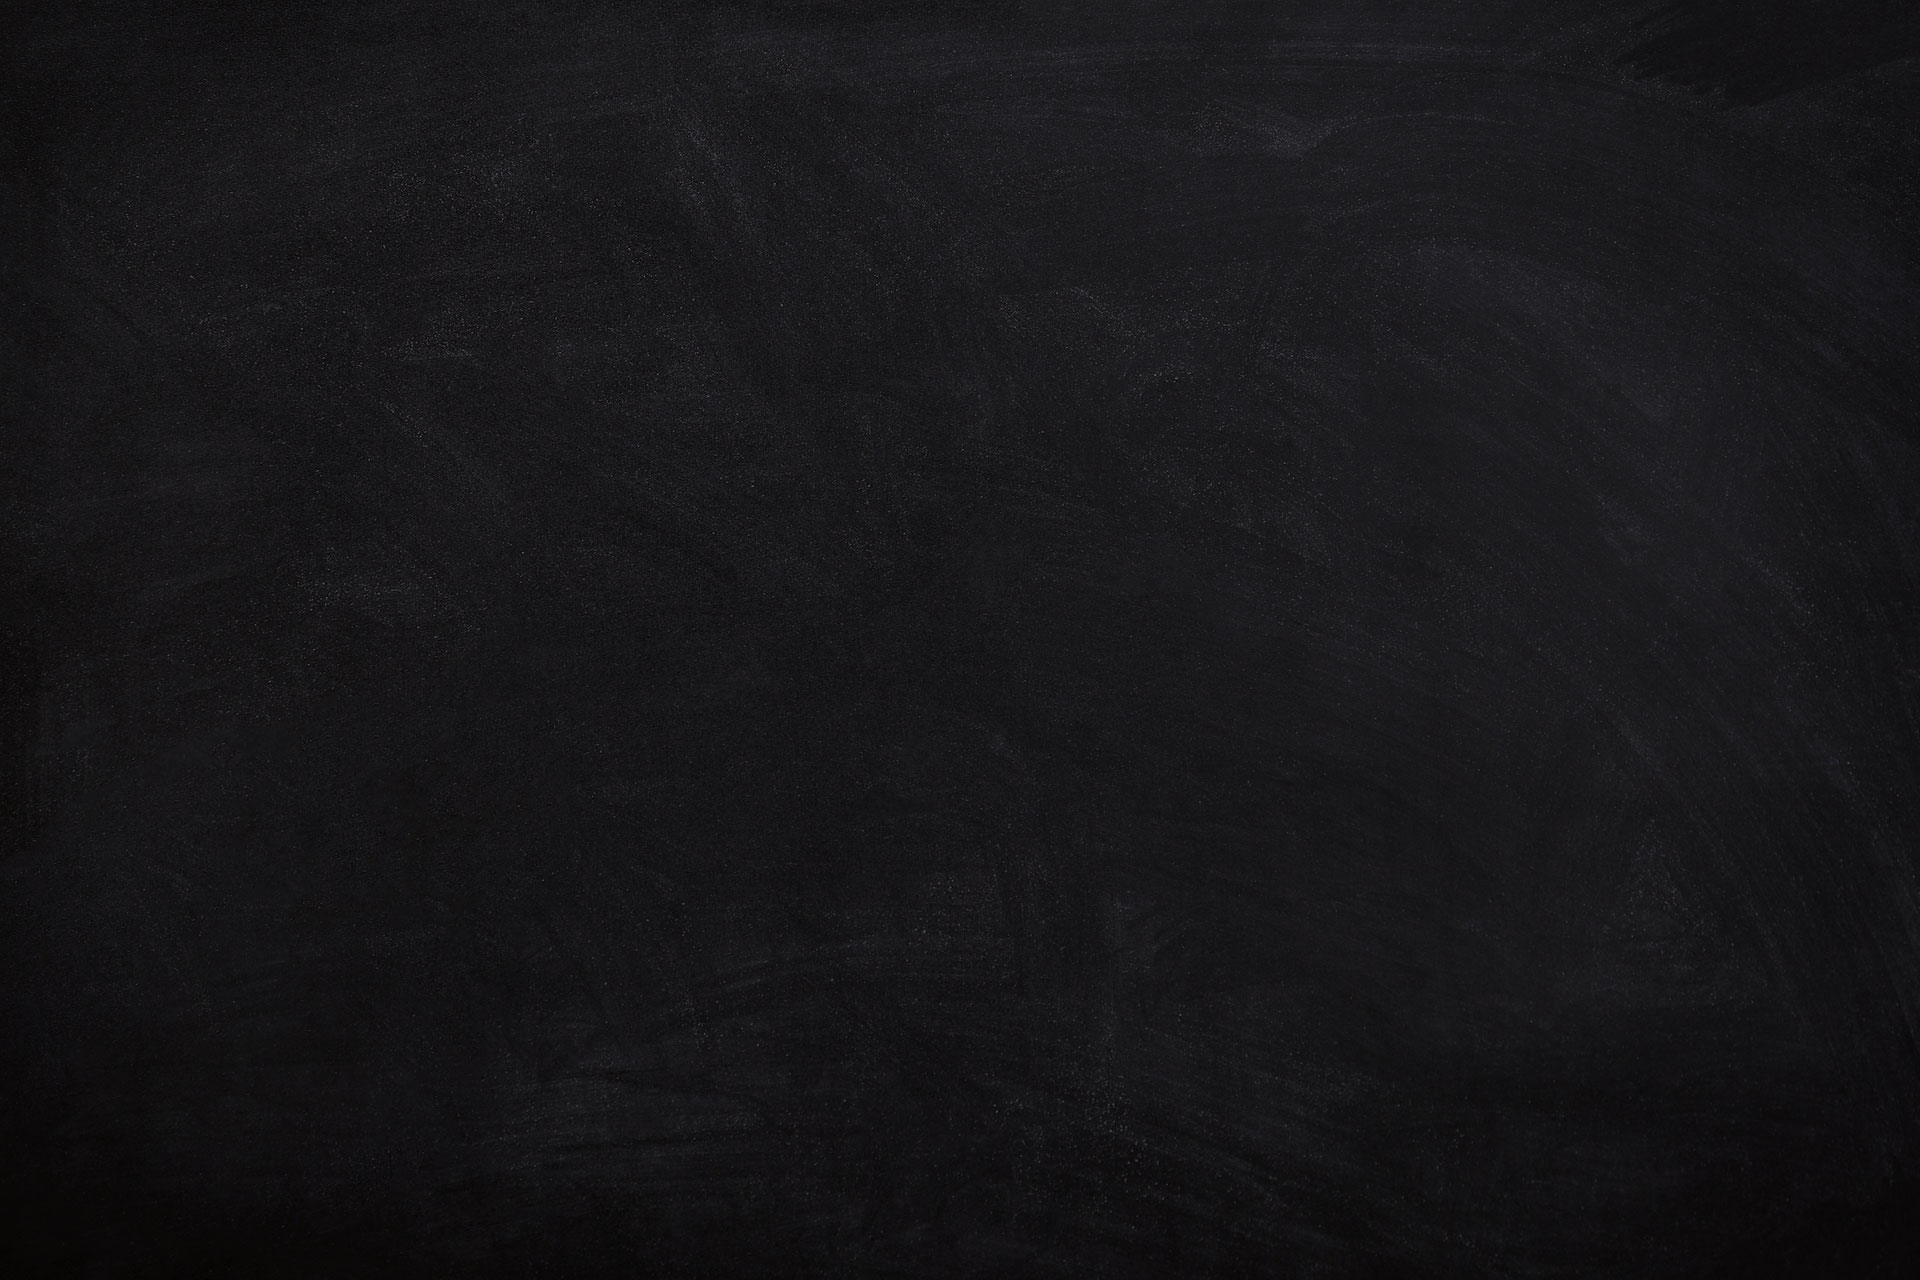
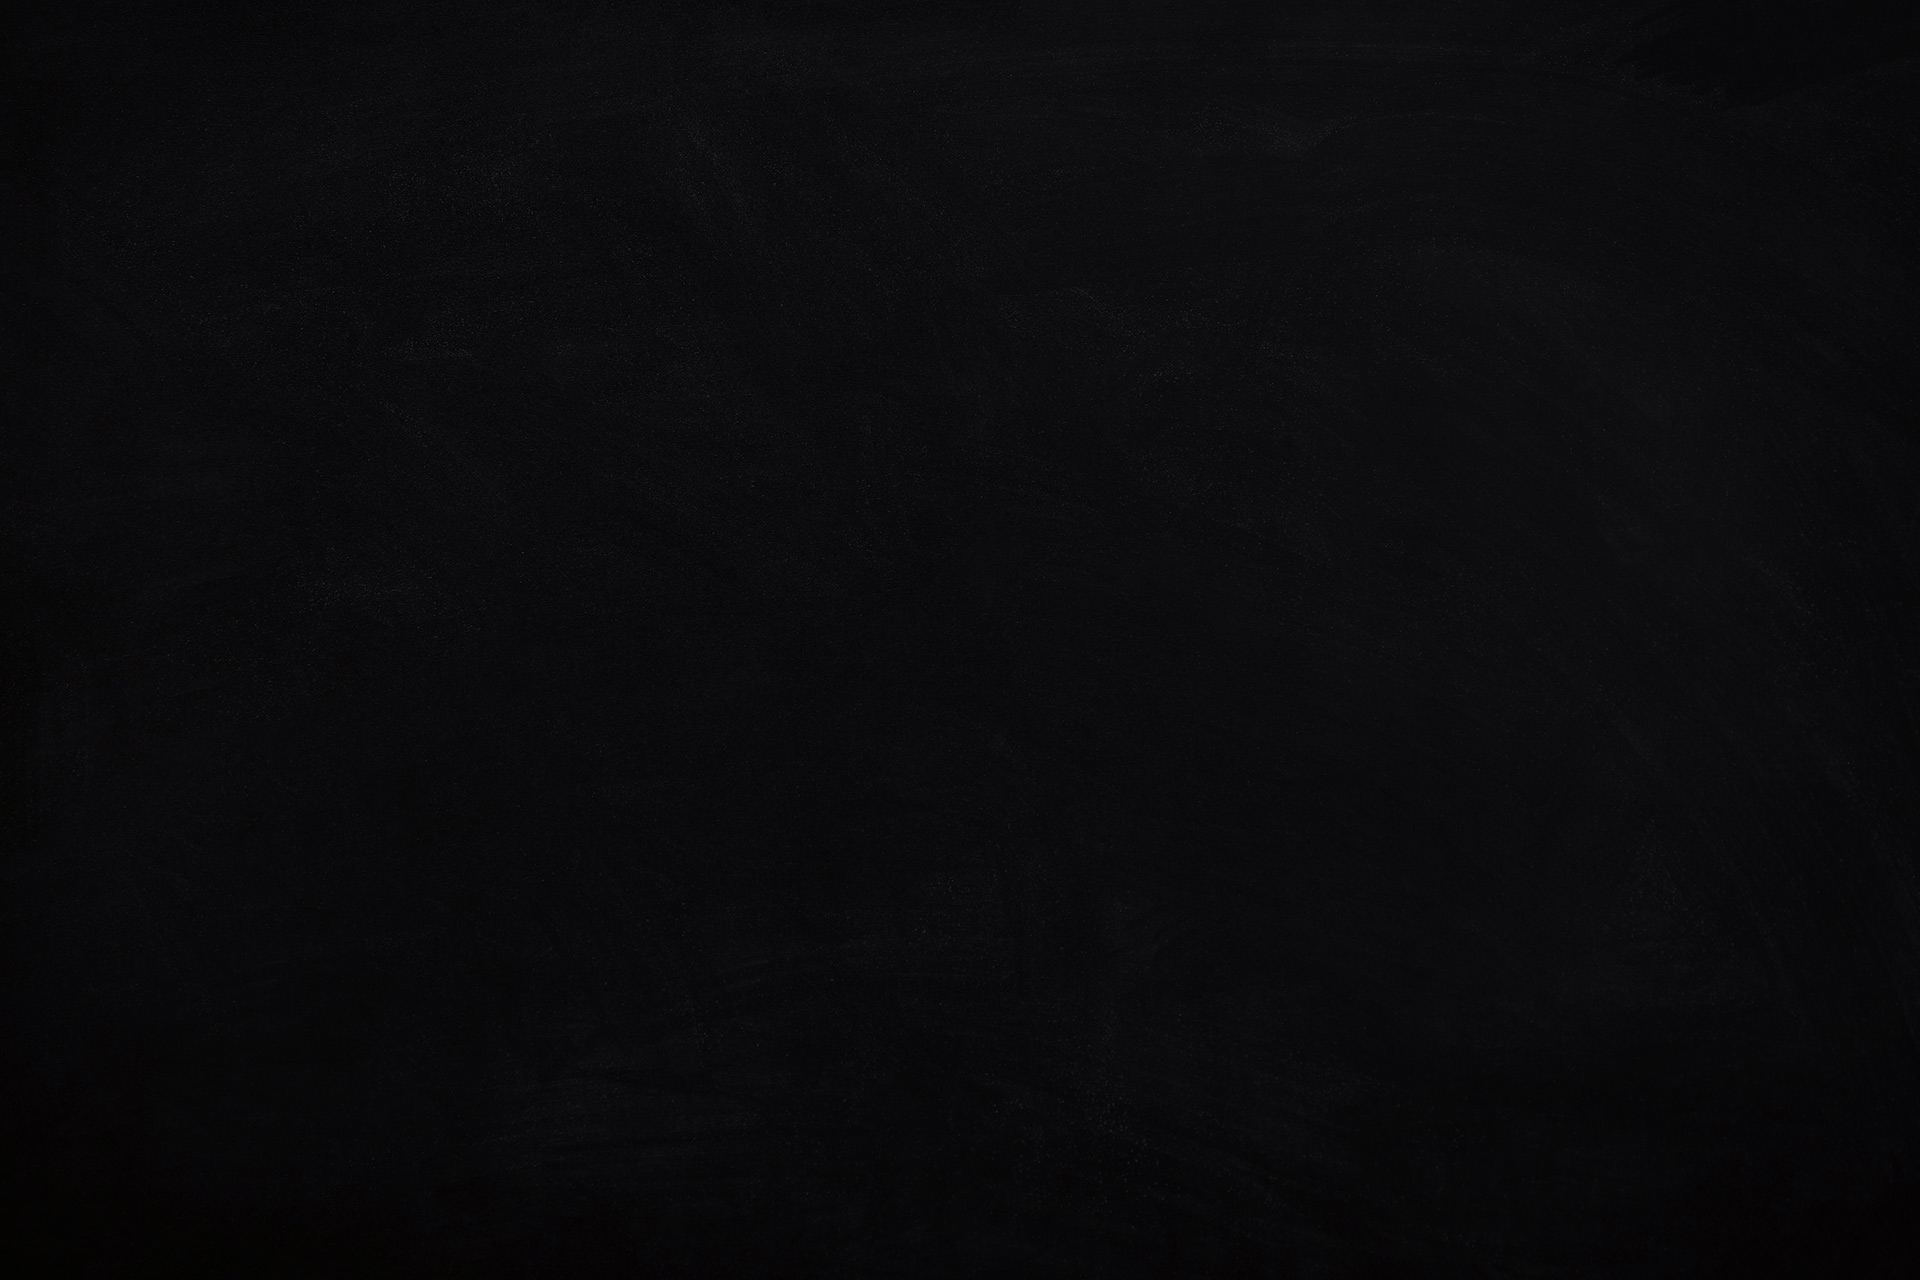
Updating backgrounds

Changed region(s): [[0.6562, 0.0938, 0.6875, 0.125]]

diff --git a/index.html b/index.html
@@ -50,19 +50,19 @@
                   <div class="orders__item">
                      <a href="#" class="orders__link">
                         <img src="images/logo-whatsapp.png" alt="Logo do Whatsapp" class="orders__image icon" />
-                        <button href="#" class="orders__button button">Whatsapp</button>
+                        <a href="#" class="orders__button button">Whatsapp</a>
                      </a>
                   </div>
                   <div class="orders__item">
                      <a href="#" class="orders__link">
                         <img src="images/logo-ifood.png" alt="Logo do Ifood" class="orders__image icon" />
-                        <button href="#" class="orders__button button">Ifood</button>
+                        <a href="#" class="orders__button button">Ifood</a>
                      </a>
                   </div>
                   <div class="orders__item">
                      <a href="#" class="orders__link">
                         <img src="images/tel.png" alt="Telefone" class="orders__image icon" />
-                        <button href="#" class="orders__button button">Telefone</button>
+                        <a href="#" class="orders__button button">Telefone</a>
                      </a>
                   </div>
                </div>
@@ -70,26 +70,36 @@
          </section>
          <section class="menu container">
             <h2 class="menu__title title">Cardápio</h2>
-            <div class="menu__options">
+            <div class="menu__content">
                <div class="menu__item">
-                  <img src="images/tradicionais.png" alt="" class="menu__image" />
-                  <button class="menu__button button">Tradicionais</button>
+                  <a href="#">
+                     <img src="images/tradicionais.png" alt="" class="menu__image" />
+                     <button class="menu__button button">Tradicionais</button>
+                  </a>
                </div>
                <div class="menu__item">
-                  <img src="images/especiais.png" alt="" class="menu__image" />
-                  <button class="menu__button button">Especiais</button>
+                  <a href="#">
+                     <img src="images/especiais.png" alt="" class="menu__image" />
+                     <button class="menu__button button">Especiais</button>
+                  </a>
                </div>
                <div class="menu__item">
-                  <img src="images/doces.png" alt="" class="menu__image" />
-                  <button class="menu__button button">Doces</button>
+                  <a href="#">
+                     <img src="images/doces.png" alt="" class="menu__image" />
+                     <button class="menu__button button">Doces</button>
+                  </a>
                </div>
                <div class="menu__item">
-                  <img src="images/porcoes.png" alt="" class="menu__image" />
-                  <button class="menu__button button">Porções</button>
+                  <a href="#">
+                     <img src="images/porcoes.png" alt="" class="menu__image" />
+                     <button class="menu__button button">Porções</button>
+                  </a>
                </div>
                <div class="menu__item">
-                  <img src="images/bebidas.png" alt="" class="menu__image" />
-                  <button class="menu__button button">Bebidas</button>
+                  <a href="#">
+                     <img src="images/bebidas.png" alt="" class="menu__image" />
+                     <button class="menu__button button">Bebidas</button>
+                  </a>
                </div>
             </div>
          </section>

diff --git a/css/menu.css b/css/menu.css
@@ -1,16 +1,35 @@
 .menu {
-   background: url("../images/bg_4.jpg") center / cover no-repeat fixed;
+   background: var(--preto);
+   position: relative;
+   overflow: hidden;
    text-align: center;
+}
+
+.menu::after {
+   background: url("../images/bg_4.jpg") center / cover no-repeat fixed;
+   content: " ";
+   display: block;
+   opacity: 0.3;
+   position: absolute;
+   z-index: 1;
+
+   left: 0;
+   top: 0;
+
+   width: 100%;
+   height: 100%;
 }
 
 .menu__title {
    color: var(--branco);
+   z-index: 2;
 }
 
-.menu__options {
+.menu__content {
    display: flex;
    flex-direction: column;
    flex-wrap: wrap;
+   z-index: 2;
 }
 
 .menu__item {

diff --git a/css/orders.css b/css/orders.css
@@ -54,6 +54,7 @@
 }
 
 .orders__button {
+   text-decoration: none;
    margin-top: 0.5em;
    min-width: 150px;
 }
